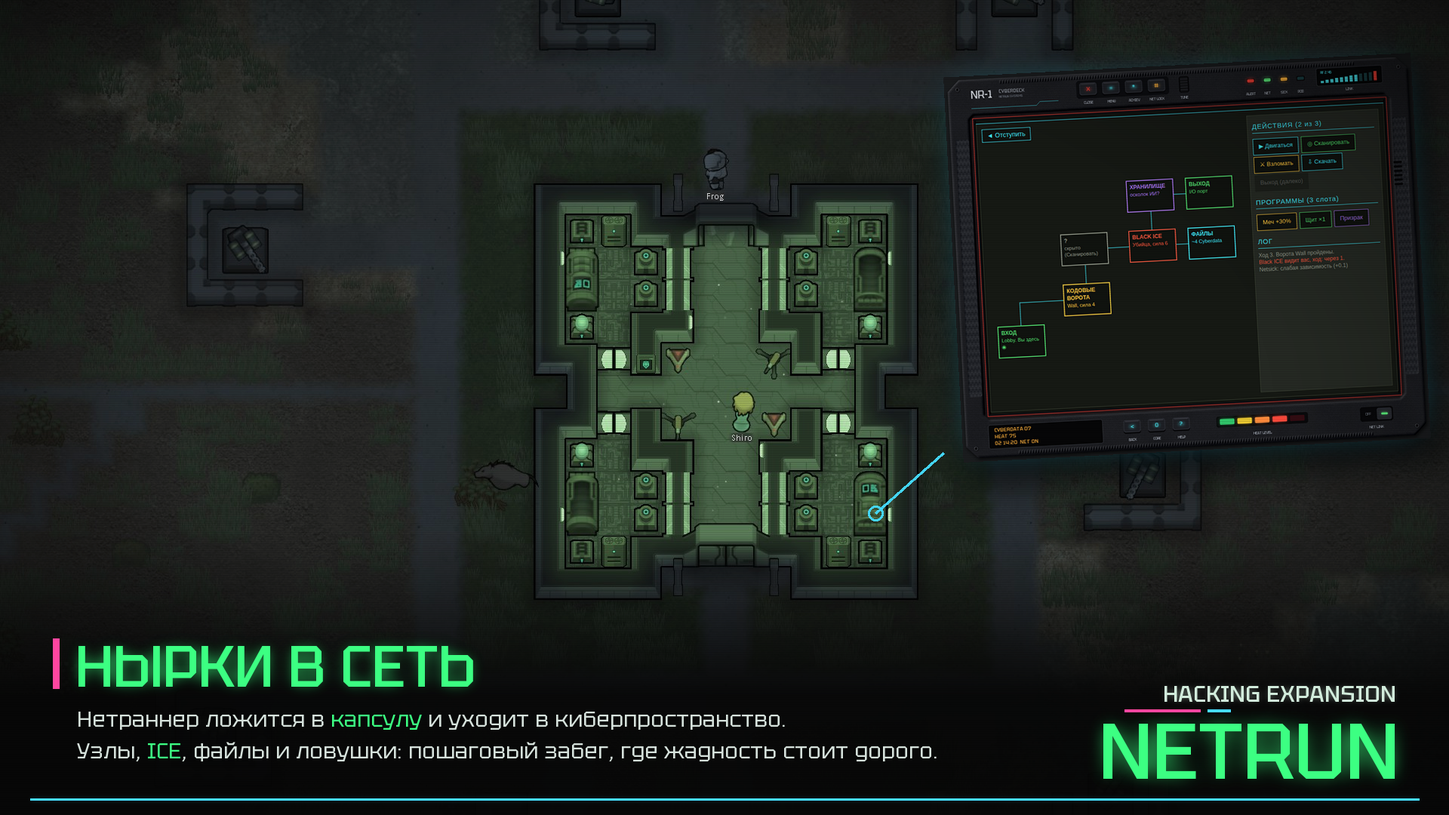
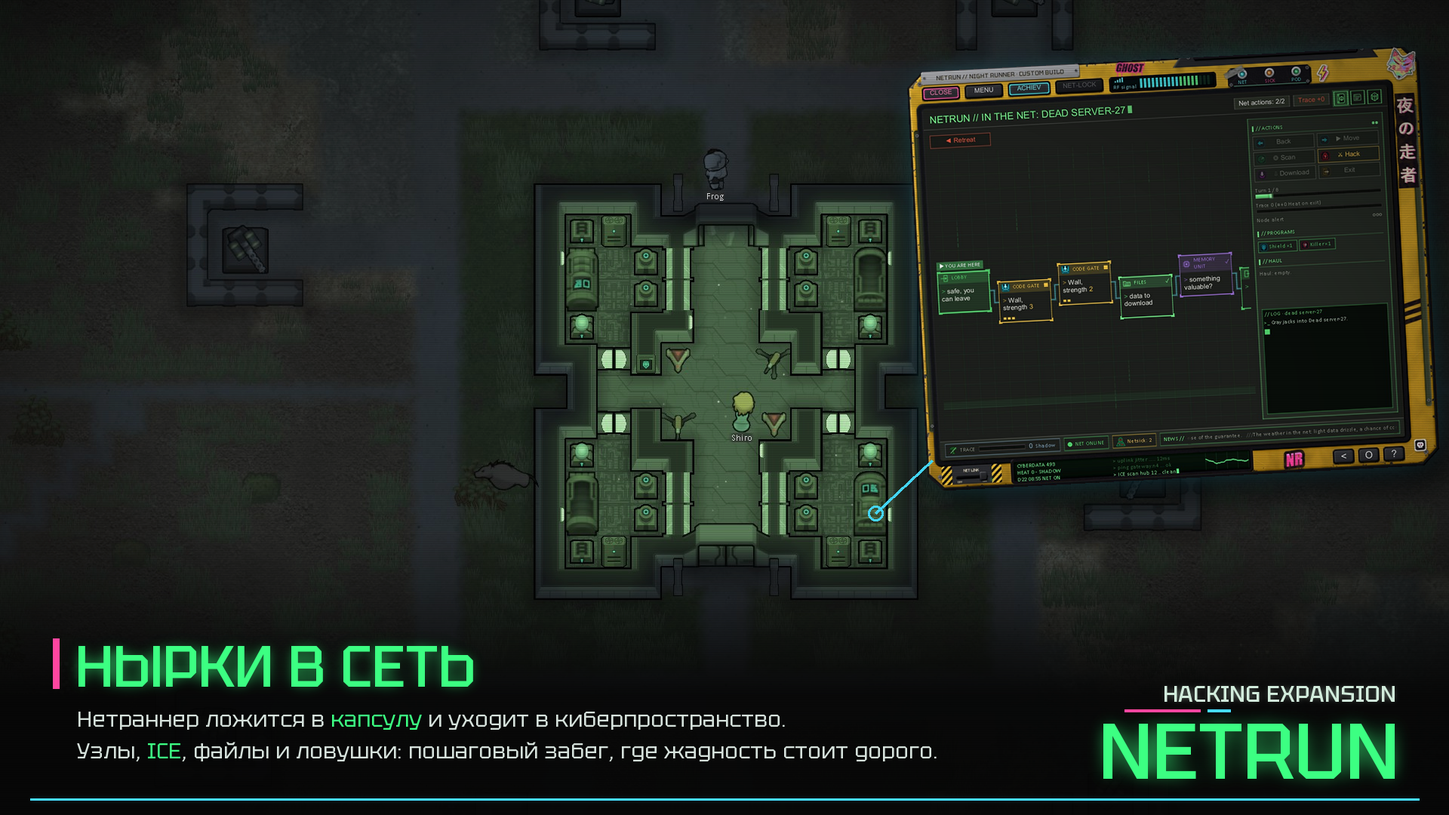
Release 1.1.0: version, changelog, Steam previews and card description in English and Russian, Events card

Changed region(s): [[0.625, 0.0611, 1.0, 0.6111]]

diff --git a/tools/gen_steam_cards.py b/tools/gen_steam_cards.py
@@ -59,10 +59,11 @@ def picture(spec, w):
     return img
 
 
-# Sections that gen_steam.py has no header for: id -> (icon, title, tagline)
+# Sections that gen_steam.py has no header for: id -> (icon, EN title, EN tagline, RU title, RU tagline)
 EXTRA = {
-    "dives": ("Cyberspace/Dive_BLACKICE", "NETRUN DIVES", "turn-based runs through the ICE"),
-    "newcomer": ("Icon_Guide", "NEW PLAYER FRIENDLY", "the net explains itself"),
+    "dives": ("Cyberspace/Dive_BLACKICE", "NETRUN DIVES", "turn-based runs through the ICE", "НЫРКИ", "пошаговые забеги сквозь ICE"),
+    "events": ("Cyberspace/Event_DistressSignal", "EVENTS", "the net does not wait for you", "СОБЫТИЯ", "сеть не ждёт"),
+    "newcomer": ("Icon_Guide", "NEW PLAYER FRIENDLY", "the net explains itself", "УДОБНО НОВИЧКАМ", "сеть объясняет себя сама"),
 }
 
 
@@ -73,12 +74,15 @@ def head_img(cid, index, lang):
     os.makedirs(tmp, exist_ok=True)
     G.IMG = tmp
     sec = next((x for x in G.SECTIONS if x[0] == cid), None)
-    ico, title, tag = (sec[1], sec[2], sec[3]) if sec else EXTRA[cid]
+    row = sec if sec else (cid,) + EXTRA[cid]
+    ico, title, tag = (row[1], row[2], row[3]) if lang == "en" else (row[1], row[4], row[5])
     G.header(cid, ico, title, tag, index, lang)
     return Image.open(os.path.join(tmp, f"{lang}_{cid}.png")).convert("RGBA")
 
 
 def card(cid, pic, bullets, flip, index, lang="en"):
+    if lang == "ru":
+        bullets = RU[cid]
     head = head_img(cid, index, lang)
     f = P.font(29, True)
     probe = ImageDraw.Draw(Image.new("RGBA", (10, 10)))
@@ -147,11 +151,11 @@ CARDS = [
         "Edit raw recordings into chips, normal to masterwork, or forbidden *black chips*.",
         "Sell them, watch them, get hooked.",
         "Hunt down *8 unique recordings* hidden across the net."]),
-    ("defense", ("scene", "квесты.jpg", (200, 225, 1720, 1080)), [
-        "Wall-mounted *firewalls* and your own *ICE tiers* up to black ICE.",
-        "A *honeypot* that traces attackers back; netrunners on watch duty.",
-        "Full network isolation, or intercept an incoming intrusion with a dive.",
-        "*Distress signals* lead to abandoned servers worth the risk."]),
+    ("events", ("scene", "квесты.jpg", (200, 225, 1720, 1080)), [
+        "*Distress signals* lead to abandoned servers in sealed, turret-guarded compounds.",
+        "A fixer's *data courier*, a *black market*, a *network hijack* to win back in a counter-hack.",
+        "Net news with real effects: hardened ICE, leaked codes, *data storms*.",
+        "Hold the line with *firewalls*, your own *ICE tiers* and a *honeypot*."]),
     ("colonists", ("scene", "связь с DLC.jpg", (220, 60, 1700, 892)), [
         "*Netsick*: pod addiction, cravings and reckless emotional dives.",
         "Dive traits, *9 backstories*, *4 scenarios*, *26 achievements* (optional).",
@@ -163,6 +167,65 @@ CARDS = [
         "First steps tick off as you play; a free *training dive* teaches the dive screen.",
         "Threats wait until your colony touches the net."]),
 ]
+
+
+RU = {
+    "heat": [
+        "Каждый взлом поднимает *Heat* колонии: пять уровней от *Тени* до *Красной зоны*.",
+        "Чем горячее след, тем жёстче ответ: нейрошум, кража данных, саботаж, скачки напряжения, вымогатели.",
+        "На вершине рейды скрытых наёмников *Black Ledger*.",
+        "Затаитесь, сотрите след у фиксера или горите ярко и платите за это."],
+    "terminal": [
+        "Консоль связи становится *сетевой консолью*: неоновым терминалом на всю сеть.",
+        "*Ядро*, *Клуб*, *Доска*, *Архив*, *Серверная*, *Студия* и *Шлюз*.",
+        "*Восемь корпусов* терминала реагируют на Heat; новые открываются по ходу игры.",
+        "Пять звуковых наборов, масштаб и цвета акцента."],
+    "cyberspace": [
+        "Одна *живая карта* на игру: около 45 хабов в районах, которые вы открываете сами.",
+        "Корпоративные башни, рынки, руины, скрытый даркнет и *Старая сеть* за стеной.",
+        "Линзы, поиск, маршруты; сбои, бури и чужие команды меняют её день за днём.",
+        "До трёх раннеров в капсулах ходят по её связям в игровом времени."],
+    "dives": [
+        "*Пошаговые нырки*: кодовые врата, тайники, файлы, блоки памяти, лёгкие и трудные развилки.",
+        "*Чёрный лёд* бьёт в ответ тошнотой, блокировкой и комой из Hacking Expansion.",
+        "*Программы* и пять *демонов*; ледорубы HE тоже в деле.",
+        "*Корпоративные ядра* хранят лучшую добычу в сети."],
+    "fixers": [
+        "Сменяемый круг *фиксеров*: брокеры, чистильщики, скупщики, имперские клиенты.",
+        "У каждого скрытая черта: надёжный, жадный, параноик... или *крыса*, которая вас сдаст.",
+        "Растите репутацию, закрепляйте тех, кому верите.",
+        "*8 видов контрактов*: доставки, врезки, тихие заходы, лаборатории брейнданса."],
+    "corps": [
+        "*3–4 корпорации* с Тревогой и Силой: патрулируют, вторгаются, захватывают районы.",
+        "Надавите посильнее, и корпорация *рухнет*.",
+        "*Команды раннеров* соревнуются с вами, помогают и нанимаются.",
+        "*Топ-100 сети*: слава платит и привлекает внимание."],
+    "ais": [
+        "Добывайте *фрагменты ИИ* и будите их: *13 личностей*, у каждой услуга, голод и доверие.",
+        "Держите их на *сервере ИИ*, в *сопроцессоре* капсулы или в голове колониста.",
+        "*75 событий ИИ* с выбором и *личные квесты*.",
+        "Колонист с кибер-линком после смерти может оставить *Эхо*..."],
+    "braindance": [
+        "*Очки брейнданса* записывают самые яркие моменты колонистов.",
+        "Монтируйте сырые записи в чипы, от обычных до шедевров, или запретные *чёрные чипы*.",
+        "Продавайте, смотрите, подсаживайтесь.",
+        "Найдите *8 уникальных записей*, спрятанных по сети."],
+    "events": [
+        "*Сигналы бедствия* ведут к заброшенным серверам в запечатанных комплексах с турелями.",
+        "*Курьер данных* фиксера, *чёрный рынок*, *взлом сети* с контрвзломом.",
+        "Новости сети с настоящими последствиями: усиленный ICE, утёкшие коды, *бури данных*.",
+        "Держите оборону: *брандмауэры*, свои *уровни ICE* и *Honeypot*."],
+    "colonists": [
+        "*Netsick*: зависимость от капсулы, ломка и безрассудные эмоциональные нырки.",
+        "Черты, *9 предысторий*, *4 сценария*, *26 достижений* (по желанию).",
+        "*Ideology*: сетевые мемы, ритуалы, архонт сети. *Royalty*: имперские фиксеры.",
+        "*Biotech*: ген и брейнданс для детей. *Odyssey*: орбитальные хабы."],
+    "newcomer": [
+        "*Киберпедия* объясняет каждую систему на живых примерах из вашей игры.",
+        "*Режим гайда* подписывает каждую часть экрана.",
+        "Первые шаги отмечаются сами; бесплатный *тренировочный нырок* учит экрану нырка.",
+        "Угрозы ждут, пока колония не коснётся сети."],
+}
 
 
 def description(lang="en"):
@@ -186,12 +249,13 @@ def description(lang="en"):
 
 def main():
     only = sys.argv[sys.argv.index("--only") + 1].split(",") if "--only" in sys.argv else None
-    for i, (cid, pic, bullets) in enumerate(CARDS):
-        if only and cid not in only:
-            continue
-        card(cid, pic, bullets, flip=i % 2 == 1, index=i + 1).convert("RGB").save(os.path.join(IMG, f"en_card_{cid}.png"), optimize=True)
-        print("card", cid)
-    description("en")
+    for lang in ("en", "ru"):
+        for i, (cid, pic, bullets) in enumerate(CARDS):
+            if only and cid not in only:
+                continue
+            card(cid, pic, bullets, flip=i % 2 == 1, index=i + 1, lang=lang).convert("RGB").save(os.path.join(IMG, f"{lang}_card_{cid}.png"), optimize=True)
+            print("card", lang, cid)
+        description(lang)
 
 
 if __name__ == "__main__":

diff --git a/tools/gen_steam_previews.py b/tools/gen_steam_previews.py
@@ -185,6 +185,25 @@ TEXT = {
             "*Фиксеры* дают контракты и чистят ваш след.",
             "*Корпорации* делят сеть и охотятся за вами, *команды раннеров* спорят за славу.",
             "Отношения, репутация и топ сети живут своей жизнью."]),
+        "map": ("Карта сети", [
+            "Большая *карта сети*: районы, земли корпораций, запертые узлы и маршруты.",
+            "Линзы добычи, опасности, корпораций и заказов; по ней ходят команды и новости."]),
+        "newcomer": ("Удобно новичкам", [
+            "*Киберпедия* объясняет каждую систему на живых примерах из вашей игры.",
+            "*Режим гайда* подписывает каждую часть экрана; первые шаги отмечаются сами."]),
+        "dlc": ("Дружит с DLC", [
+            "*Ideology*: сетевые мемы, ритуалы со своим видом и звуком, роль архонта сети.",
+            "*Royalty*: имперские клиенты среди фиксеров. *Biotech*: ген, брейнданс для детей.",
+            "*Odyssey*: орбитальные хабы, пока гравикорабль в космосе."]),
+        "ai": ("Живые ИИ, настоящие угрозы", [
+            "Будите *фрагменты ИИ*: 13 личностей, 75 событий с выбором, личные квесты.",
+            "Перегреетесь, и сеть ответит: *вирусы, скачки напряжения*, вымогатели и рейды."]),
+        "quests": ("Сигналы во тьме", [
+            "*Сигнал бедствия* ведёт к заброшенному серверу в запечатанном комплексе.",
+            "Пройдите турели и подключитесь: *фрагмент ИИ* или удар ICE."]),
+        "braindance": ("Брейнданс", [
+            "*Очки* записывают самые яркие моменты ваших колонистов.",
+            "Монтируйте записи в чипы, продавайте или смотрите; *чёрные чипы* сильнее."]),
     },
     "en": {
         "terminal": ("The net terminal", [

diff --git a/docs/RELEASE.md b/docs/RELEASE.md
@@ -1,14 +1,15 @@
-# Релиз в Steam Workshop: 0.6.0
+# Релиз в Steam Workshop: 1.1.0
 
-Обновлено 2026-10-15. Версия 0.6.1 в `About.xml`, `Source/Netrun.csproj`, `SourceVAE/NetrunVAE.csproj`; поддержка RimWorld 1.6 и 1.7. Прежний чек-лист (состояние на 2026-10-08) в git-истории этого файла.
+Обновлено 2026-10-16. Версия 1.1.0 в `About.xml`, `Source/Netrun.csproj`, `SourceVAE/NetrunVAE.csproj`; поддержка RimWorld 1.6 и 1.7. Прежний чек-лист (состояние на 2026-10-08) в git-истории этого файла.
 
 ## 1. Готово
-- `About/About.xml`: имя, автор Raul Moreau, packageId `GafarovMaxim.HackingExpansionNetrun`, версии 1.6 и 1.7, зависимости HE, Harmony, VEF; описание обновлено под 0.6.0.
-- `About/Preview.png`: превью v3 (640x360, 200 КБ). Для страницы Workshop большая версия `docs/steam/img/preview_v3_1280x720.png`. Источник `docs/steam/preview_v3_source.html`.
-- `CHANGELOG.md`: раздел [0.6.0] - 2026-10-15 (Added, Changed, Fixed).
+- `About/About.xml`: имя, автор Raul Moreau, packageId `GafarovMaxim.HackingExpansionNetrun`, версии 1.6 и 1.7, зависимости HE, Harmony, VEF; описание обновлено под 1.1.0.
+- `About/Preview.png`: 640x360 из превью «The net terminal». Превью для страницы Workshop: 9 штук 1920x1080 в `docs/steam/previews/` (`en_*.png`, `ru_*.png`), генератор `tools/gen_steam_previews.py`.
+- `CHANGELOG.md`: раздел [1.1.0] - 2026-10-16 (Added, Changed).
 - `README.md`, `README_RU.md`: версии 1.6 и 1.7, экран навигации, карта с линзами, защищённые хабы, тренировочный нырок, «Переход», наёмники Black Ledger.
 - Описание Workshop: `docs/steam/description_{en,ru}.txt` (заголовки текстом) и `description_{en,ru}_images.txt` (заголовки картинками), все меньше 8000 знаков. Добавлен раздел «Переход», метка «1.6 / 1.7» на баннере.
-- Картинки описания: ссылки на GitHub по тегу `v0.6.1` (`https://raw.githubusercontent.com/GafarovMaxim/RimWorld-Netrun/v0.6.1/docs/steam/img/...`). Репозиторий публичный. Imgur не нужен.
+- Описание из картинок (как у Vanilla Expanded): `docs/steam/description_{en,ru}_cards.txt`, 11 карточек `img/{en,ru}_card_*.png` (`tools/gen_steam_cards.py`). Основной вариант для загрузки.
+- Картинки описания: ссылки на GitHub по тегу `v1.1.0` (`https://raw.githubusercontent.com/GafarovMaxim/RimWorld-Netrun/v1.1.0/docs/steam/img/...`). Репозиторий публичный. Imgur не нужен.
 - Код: все Harmony-патчи в try/catch, коды ErrorOnce уникальны; информационные Log.Message только в dev-режиме.
 - CI: zip только из About, Assemblies, Defs, Languages, Optional, Patches, Sounds, Textures, README.md, LICENSE; собирает обе DLL сам (VAE-часть тоже). По тегу `v*` прикрепляет zip к GitHub Release.
 - Исходный арт вынесен из репозитория в `G:\Modding\RimWorld\Hacking Expansion Netrun\Reserve`.
@@ -16,10 +17,10 @@
 ## 2. Порядок публикации (делает Maxim)
 1. Закрыть игру, собрать: `dotnet build Source/Netrun.csproj -c Release` (DLL в репозитории обновится; в zip CI её соберёт сам).
 2. Проверить в игре новую игру и старое сохранение: нет красных строк от мода в `Player.log`.
-3. Поставить тег на последний коммит `dev` и отправить его: `git tag v0.6.1`, `git push origin v0.6.1`. CI сделает Release с `HackingExpansionNetrun.zip`, а ссылки на картинки описания начнут работать.
+3. Поставить тег на последний коммит `dev` и отправить его: `git tag v1.1.0`, `git push origin v1.1.0`. CI сделает Release с `HackingExpansionNetrun.zip`, а ссылки на картинки описания начнут работать.
 4. Скачать zip из Release и распаковать в отдельную папку в `Mods` (например `Mods\HackingExpansionNetrun`). Загружать в Workshop только её: в папке `_Dev` лежат `.git`, `Source`, `SourceVAE`, `tools`, `docs`, `.github`, `CLAUDE.md`, они не должны попасть в Steam. Пока обе папки в `Mods`, у них один packageId: на время загрузки вынести `_Dev` из `Mods` или выключить её в списке модов.
 5. RimWorld → Моды → выбрать чистую папку → «Загрузить в Steam Workshop». Видимость сначала «только по ссылке».
-6. На странице Workshop: вставить `docs/steam/description_en_images.txt` (основной язык), русский `description_ru_images.txt` добавить как язык описания; большую картинку превью 1280x720 и 4–8 скриншотов 1920x1080; теги Workshop.
+6. На странице Workshop: вставить `docs/steam/description_en_cards.txt` (основной язык), русский `description_ru_cards.txt` добавить как язык описания; 9 превью из `docs/steam/previews/en_*.png`; теги Workshop.
 7. Проверить страницу по ссылке, потом открыть для всех.
 
 ## 3. Теги Workshop
@@ -39,6 +40,6 @@ Mod, 1.6, 1.7, Cyberpunk, Hacking, Events, Factions, Quests, UI, Translation: Ru
 `docs/`, `tools/`, `Source/`, `SourceVAE/`, `.git`, `.github`, `build.bat`, `CLAUDE.md`, `SECURITY.md`, `Test.txt`. В zip CI их нет; перед загрузкой посмотреть содержимое папки, размер около 8 МБ.
 
 ## 6. Риски
-- `docs/` в репозитории нужна для ссылок на картинки описания: они читаются из тега `v0.6.1`. Удалять `docs` только в копии для загрузки, не коммитить удаление.
+- `docs/` в репозитории нужна для ссылок на картинки описания: они читаются из тега `v1.1.0`. Удалять `docs` только в копии для загрузки, не коммитить удаление.
 - Ветка `main` отстаёт от `dev`; релиз идёт по тегу, `main` не трогаем без решения Maxim.
 - Сборка идёт против ссылок 1.6, игра 1.7: перед публикацией проверить в 1.7 (лог чистый).

diff --git a/docs/STATUS.md b/docs/STATUS.md
@@ -1,6 +1,6 @@
 # Статус проекта
 
-Задачи живут в `TASKS.md` (единственный файл задач). Дизайн: `CONCEPT.md`. Правила кода и производительности: `TECH_DETAILS.md`. История: `ARCHIVE.md`. Обновлено: 2026-10-15.
+Задачи живут в `TASKS.md` (единственный файл задач). Дизайн: `CONCEPT.md`. Правила кода и производительности: `TECH_DETAILS.md`. История: `ARCHIVE.md`. Обновлено: 2026-10-16.
 
 ## Сейчас
 - Ветка `dev`, мод для RimWorld 1.6 и 1.7 (сборка против ссылок 1.6, лог 1.7 в `...\Logs\Player.log`). Последний этап: концовка «Переход» (техпринты, инсайдер-гость в Клубе, фиолетовые лаборатории с отметкой узла), пошаговая тренировка с подсказками, правки карты (закрытая орбита, маршруты, поиск, ключи).
@@ -16,7 +16,7 @@
 1. Тест нового «Перехода» (2026-10-15): окно группы, все стартуют вместе, тело тихо умирает (нет письма о смерти и скорби), эпилог сразу после группы; старая оболочка в сейве отпускается при загрузке; изоляция сети прерывает загрузку.
 2. Темы рамки v2 (макет `docs/mockups/37*`), по шагам. Сделаны: Номад (`tools/gen_deck_nomad.py`, `Source/Terminal/DeckNomad.cs`, 50 нырков) и Стрит, жёлтая панель по референсу Maxim (`docs/mockups/38b-street-yellow.png`, `tools/gen_deck_street.py` + наклейки и граффити `tools/deck_stickers.py`, `Source/Terminal/DeckStreet.cs`, открывается за Black ICE; вариант с ЭЛТ-монитором в Reserve `_archive/DeckStreet_CRT`). Kurenai Systems, светлая корпоративная по референсам Maxim (`docs/mockups/39-kurenai.png`, `tools/gen_deck_kurenai.py`, `Source/Terminal/DeckKurenai.cs`, тема с Id OpsPad, 25 контрактов). Iron Company, военная, вариант A с янтарными экранами (`docs/mockups/41-iron.png`, `tools/gen_deck_iron.py`, `Source/Terminal/DeckIron.cs`, тема с Id Milspec). Все четыре ждут проверки в игре (dev: «Unlock: all deck themes»). На LCD Стрита вместо матрицы чисел печатающийся лог слева и осциллограф RF справа (ждёт проверки в игре). NR-80 Ретро, вариант D (`docs/mockups/42d-retro.png`, `tools/gen_deck_retro.py`, `Source/Terminal/DeckRetro.cs`, Id Retro, открывается за «Тихий сезон», условие предварительное) ждёт проверки в игре. У Номада проём экрана в текстуре теперь совпадает с кодом (In T 72). У Iron лампа ALARM над шильдиком (пульс с «Цели», строб в красной зоне); у всех рамок анимации высокого Heat (брелок, помехи RF, дыхание полосы и штамп ALERT, пляшущие огоньки, треск неона, пульс шкалы). Ждут проверки в игре. Новая классика: Кибердека NR-1 (`docs/mockups/46b-classic-cyberdeck.png`, `tools/gen_deck_classic.py`, `Source/Terminal/DeckCyber.cs`, тема с Id Field, старая рисованная рамка осталась запасной), ждёт проверки в игре. Старая дека «Реликт», полевой прибор с колонкой приборов справа (`docs/mockups/48d-relic-column-v3.png`, `tools/gen_deck_relic.py`, `Source/Terminal/DeckRelic.cs`, Id Relic, открывается за первый нырок в Старую сеть, достижение «Призраки Старой сети»), ждёт проверки в игре. «Студия брейнданса», фиолетовый монитор над микшерным пультом с VHS-наклейками (`docs/mockups/49-studio.png`, `tools/gen_deck_studio.py`, `Source/Terminal/DeckStudio.cs`, Id Studio, открывается за 3 уникальные записи), ждёт проверки в игре. PROTO-X отложен.
 3. Эффекты сетевых ритуалов (литания, очистка следа), зелёные: свечение, дорожки плат на полу (flecks, загораются и гаснут по очереди), падающие столбики кода, всплывающие цифры, свой эмбиент вместо музыки идеологии (`Defs/RitualEffects.xml`, `tools/gen_ritual_fx.py`, `RitualBehaviorWorker_Net`). Кнопка перегенерации карты в настройках. Студия: на стандартном окне виден малый spectrum, подписи фейдеров короткие. Ждут проверки в игре.
-4. Релиз 0.6.4 собран локально (`dist/`), не запушен: ждёт слова Maxim (push dev, тег `v0.6.4`).
+4. Релиз 1.1.0 подготовлен (2026-10-16): версия в About.xml и обоих csproj, CHANGELOG [1.1.0], описание Steam из картинок (`docs/steam/description_{en,ru}_cards.txt`, 11 карточек) и 9 превью 1920x1080 на EN и RU (`docs/steam/previews/`), ссылки на картинки по тегу `v1.1.0`. Ждёт тега `v1.1.0` (с разрешения Maxim) и загрузки по `docs/RELEASE.md`.
 
 ## Открытые вопросы
 - Весь исходный арт (1258 файлов: исходники, старые варианты, шаблоны) перенесён в `G:\Modding\RimWorld\Hacking Expansion Netrun\Reserve`; в репозитории только `Textures/`, всё используемое там.

diff --git a/CHANGELOG.md b/CHANGELOG.md
@@ -3,12 +3,8 @@
 All notable changes to Hacking Expansion: Netrun. Format: [Keep a Changelog](https://keepachangelog.com/), versions follow `About/About.xml`.
 
 ## [Unreleased]
-### Changed
-- Frames at small scales: the Relic and NR-1 Heat scales shrink instead of vanishing, the NR-1 top lamps slide into any room, the Nomad tally shows as many groups as fit; the Retro HEAT caption sits higher, the Nomad cross pad core is centred.
-- Braindance studio at the default window: the spectrum screen shrinks to a small one instead of hiding, the LCD panel narrows, fader captions are short (NET LINK, EMO, SOMA, AUD, VIS) and no longer overlap. Net rituals: the floor circuit traces now light up and fade in turn (brighter, thicker) instead of static motes that did not show.
-- Relic HEAT lamps fit the default window (keys pack tighter on narrow windows). Net ritual effects are sparser and spread over a fixed area around the target, through walls, instead of crowding a small room.
-- The abandoned server stays after a colonist connects to it (once; the AI fragment drops next to them). The turret hijack event is now called network hijack. Corporate frame key glyphs centred on their rings.
 
+## [1.1.0] - 2026-10-16
 ### Added
 - The net rituals (litany of data, trace cleansing) have their own green look: a glow, circuit traces on the floor, falling columns of code and floating digits; and their own ambience (a cyberspace drone with data chirps) instead of the ideoligion music.
 - New terminal frame "Braindance studio": a violet monitor over a mixing desk with a scrolling timeline, a chip bay, a LED level meter (Heat and signal), faders, a jog wheel, headphone and mic AUX jacks, a spectrum screen and VHS stickers. Opens with 3 unique braindance recordings.
@@ -23,6 +19,10 @@ All notable changes to Hacking Expansion: Netrun. Format: [Keep a Changelog](htt
 - The game's music fades down while the terminal is open (to 30 %, a slider in Sound settings) and comes back when it closes.
 - Settings: hovering a cyberspace layout shows a small preview of its map.
 ### Changed
+- Frames at small scales: the Relic and NR-1 Heat scales shrink instead of vanishing, the NR-1 top lamps slide into any room, the Nomad tally shows as many groups as fit; the Retro HEAT caption sits higher, the Nomad cross pad core is centred.
+- Braindance studio at the default window: the spectrum screen shrinks to a small one instead of hiding, the LCD panel narrows, fader captions are short (NET LINK, EMO, SOMA, AUD, VIS) and no longer overlap. Net rituals: the floor circuit traces now light up and fade in turn (brighter, thicker) instead of static motes that did not show.
+- Relic HEAT lamps fit the default window (keys pack tighter on narrow windows). Net ritual effects are sparser and spread over a fixed area around the target, through walls, instead of crowding a small room.
+- The abandoned server stays after a colonist connects to it (once; the AI fragment drops next to them). The turret hijack event is now called network hijack. Corporate frame key glyphs centred on their rings.
 - Hub watch has no button any more: while anyone lies in a powered cyberpod, the sharpest of them keeps watch (+1 hub defense per 4 Intellectual). Several pods do not stack.
 - Ideoligion screen: the Net Archon sits in one row with the leader and the moral guide (it had a lower impact, which started a row of its own).
 - Cyberspace maps keep more room between hubs (wider districts, a larger gap, and a pass that pushes apart hubs left too close), so links cross less and name plates overlap less. Applies to newly generated nets.
